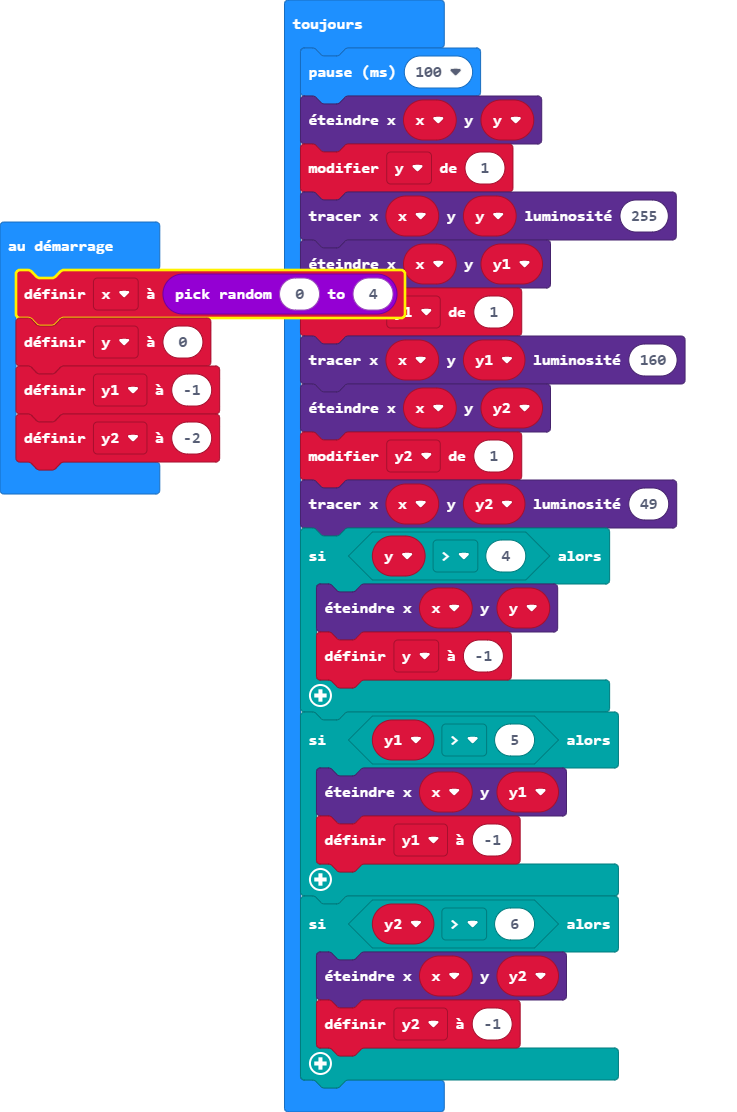
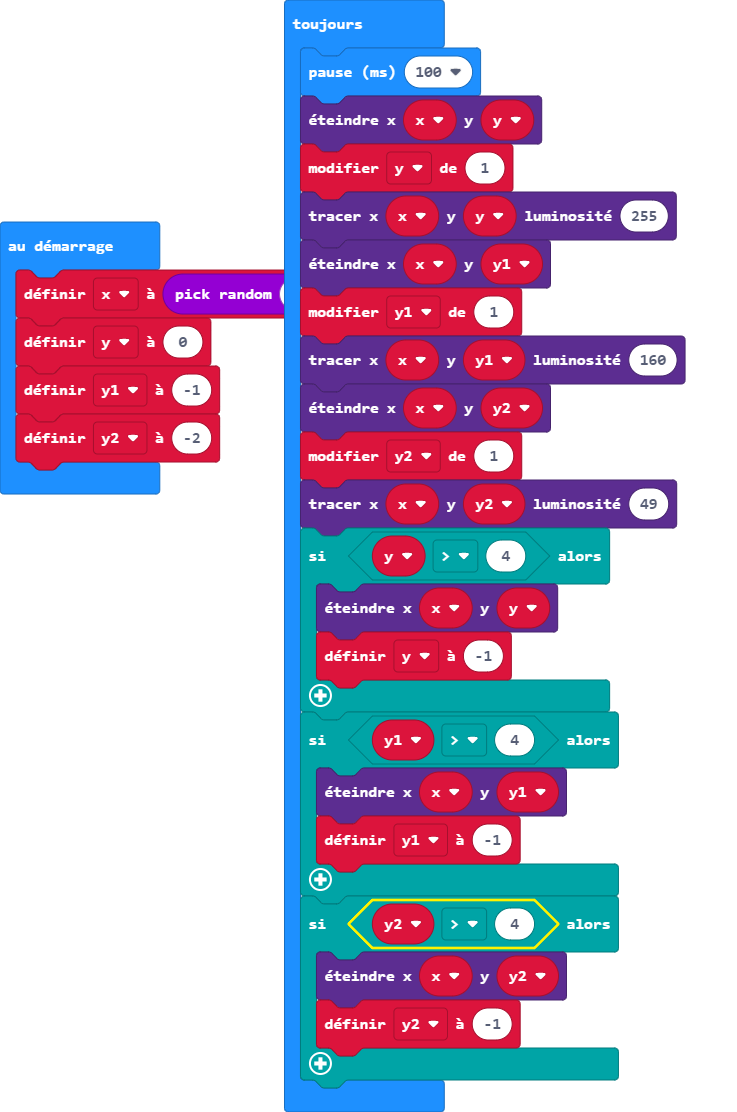
Mise à jour main.blocks, main.ts

Changed region(s): [[0.0936, 0.214, 0.5617, 0.3058], [0.4681, 0.795, 0.749, 0.8561], [0.0, 0.2446, 0.0312, 0.2752]]

diff --git a/main.ts b/main.ts
@@ -17,11 +17,11 @@ basic.forever(function () {
         led.unplot(x, y)
         y = -1
     }
-    if (y1 > 5) {
+    if (y1 > 4) {
         led.unplot(x, y1)
         y1 = -1
     }
-    if (y2 > 6) {
+    if (y2 > 4) {
         led.unplot(x, y2)
         y2 = -1
     }
